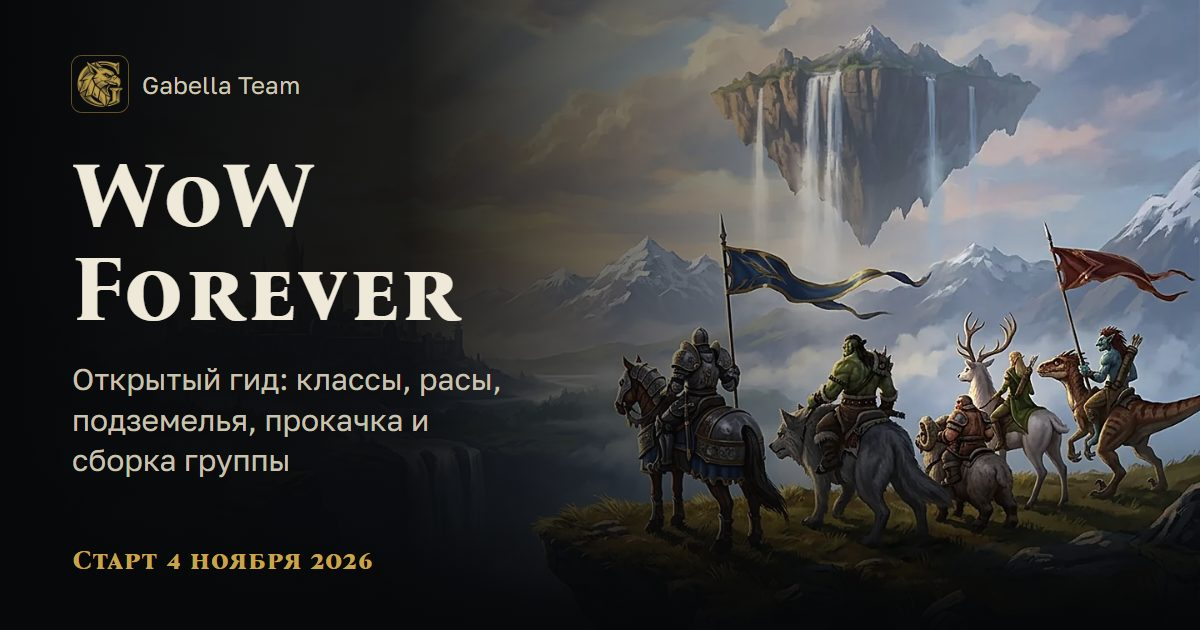
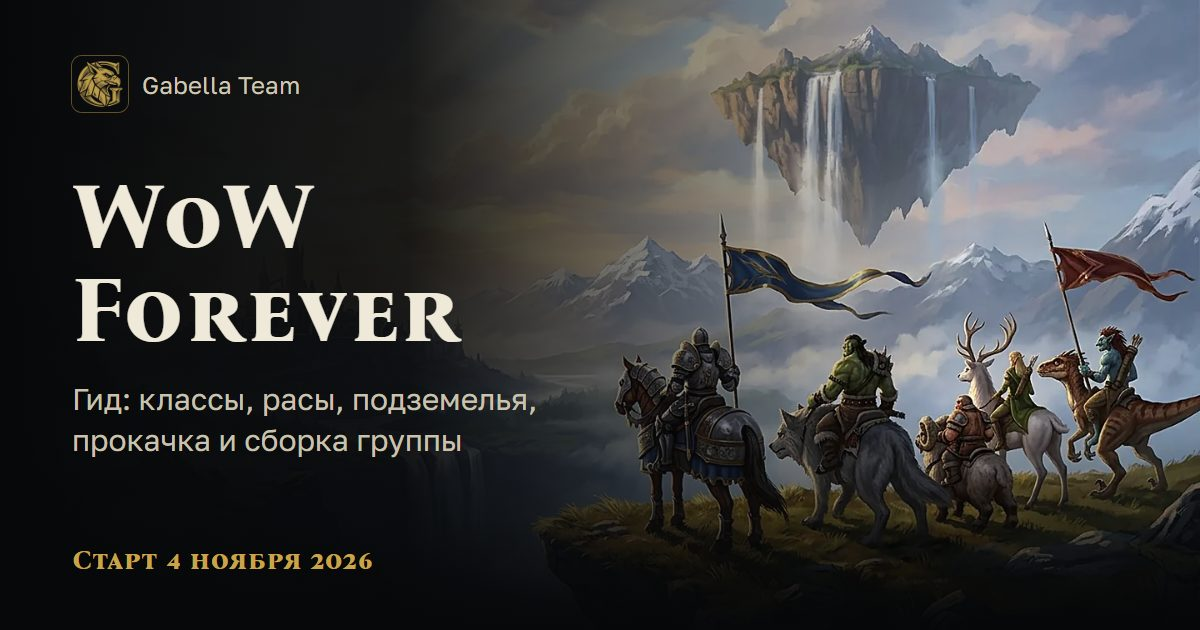
Гид: без слова «открытый» — просто «Гид по WoW Forever» (ru/en/uk, OG)

Changed region(s): [[0.0617, 0.2413, 0.4008, 0.5429], [0.0617, 0.573, 0.4625, 0.754]]

diff --git a/index.src.html b/index.src.html
@@ -13,7 +13,7 @@
 </script>
 <meta name="viewport" content="width=device-width, initial-scale=1">
 <title>WoW Forever: гид Gabella Team</title>
-<meta name="description" content="Открытый гид по WoW Forever: классы, расы, комбинации, Legacy, лагерь, подземелья, рейды и подбор состава группы. Данные на 23.10.2026.">
+<meta name="description" content="Гид по WoW Forever: классы, расы, комбинации, Legacy, лагерь, подземелья, рейды и подбор состава группы. Данные на 23.10.2026.">
 <meta name="theme-color" content="#060708">
 <link rel="alternate" hreflang="ru" href="https://gabella.site/wow/">
 <link rel="alternate" hreflang="en" href="https://gabella.site/wow/en/">
@@ -827,7 +827,7 @@ dialog.sheet::backdrop { background: rgba(0,0,0,.6); }
   </picture>
   <div class="wrap hero-in">
     <h1>World of Warcraft <span>Forever</span></h1>
-    <p class="lead">Классы, расы, сбор группы и всё, что нужно знать к старту 4 ноября. Собрано открыто: с источниками и датой.</p>
+    <p class="lead">Классы, расы, сбор группы и всё, что нужно знать к старту 4 ноября. С источниками и датой.</p>
     <div class="cd" id="cd" aria-live="polite"></div>
     <div class="cta">
       <a class="btn lg" href="#classes">Выбрать класс</a>

diff --git a/index.html b/index.html
@@ -835,7 +835,7 @@ dialog.sheet::backdrop { background: rgba(0,0,0,.6); }
   </picture>
   <div class="wrap hero-in">
     <h1>World of Warcraft <span>Forever</span></h1>
-    <p class="lead">Классы, расы, сбор группы и всё, что нужно знать к старту 4 ноября. Собрано открыто: с источниками и датой.</p>
+    <p class="lead">Классы, расы, сбор группы и всё, что нужно знать к старту 4 ноября. С источниками и датой.</p>
     <div class="cd" id="cd" aria-live="polite"></div>
     <div class="cta">
       <a class="btn lg" href="#classes">Выбрать класс</a>

diff --git a/uk/index.html b/uk/index.html
@@ -835,7 +835,7 @@ dialog.sheet::backdrop { background: rgba(0,0,0,.6); }
   </picture>
   <div class="wrap hero-in">
     <h1>World of Warcraft <span>Forever</span></h1>
-    <p class="lead">Класи, раси, збір групи й усе, що треба знати до старту 4 листопада. Зібрано відкрито: з джерелами та датою.</p>
+    <p class="lead">Класи, раси, збір групи й усе, що треба знати до старту 4 листопада. З джерелами та датою.</p>
     <div class="cd" id="cd" aria-live="polite"></div>
     <div class="cta">
       <a class="btn lg" href="#classes">Обрати клас</a>

diff --git a/sw.js b/sw.js
@@ -4,7 +4,7 @@
    GitHub Pages lets browsers keep files only 10 minutes, so repeat visits come from here instead.
    VERSION is written by build.py from the contents of assets/ and the manifests: any changed file gives
    a new worker, which drops the old caches on activate. */
-const VERSION = '8da5ebbec7';
+const VERSION = 'e8202ff220';
 const PAGES = 'pages-' + VERSION, FILES = 'files-' + VERSION;
 const PRECACHE = ['./', 'assets/fonts/bona-nova-sc-cyrillic.woff2', 'assets/fonts/bona-nova-sc-latin.woff2',
   'assets/fonts/golos-text-cyrillic.woff2', 'assets/fonts/golos-text-latin.woff2', 'assets/icons/icon-192.png'];

diff --git a/en/index.html b/en/index.html
@@ -835,7 +835,7 @@ dialog.sheet::backdrop { background: rgba(0,0,0,.6); }
   </picture>
   <div class="wrap hero-in">
     <h1>World of Warcraft <span>Forever</span></h1>
-    <p class="lead">Classes, races, group building and everything you need for the November 4 launch. Made in the open, with sources and dates.</p>
+    <p class="lead">Classes, races, group building and everything you need for the November 4 launch. With sources and dates.</p>
     <div class="cd" id="cd" aria-live="polite"></div>
     <div class="cta">
       <a class="btn lg" href="#classes">Choose a class</a>

diff --git a/tools/make_og.py b/tools/make_og.py
@@ -14,9 +14,9 @@ LANGS = ('ru', 'en', 'uk')
 BRAND = 'Gabella Team'
 START = {'ru': 'Старт 4 ноября 2026', 'en': 'Launch November 4, 2026', 'uk': 'Старт 4 листопада 2026'}
 HOME = {'t': {'ru': 'WoW Forever', 'en': 'WoW Forever', 'uk': 'WoW Forever'},
-        'd': {'ru': 'Открытый гид: классы, расы, подземелья, прокачка и сборка группы',
-              'en': 'An open guide: classes, races, dungeons, leveling and party building',
-              'uk': 'Відкритий гід: класи, раси, підземелля, прокачування та збір групи'}}
+        'd': {'ru': 'Гид: классы, расы, подземелья, прокачка и сборка группы',
+              'en': 'Guide: classes, races, dungeons, leveling and party building',
+              'uk': 'Гід: класи, раси, підземелля, прокачування та збір групи'}}
 TOOLS = {'t': {'ru': 'Инструменты', 'en': 'Tools', 'uk': 'Інструменти'},
          'd': {'ru': 'Рамки группы, рейдовая сетка, сравнение классов и рас, поиск по гиду',
                'en': 'Party frames, raid grid, class and race comparison, guide search',
